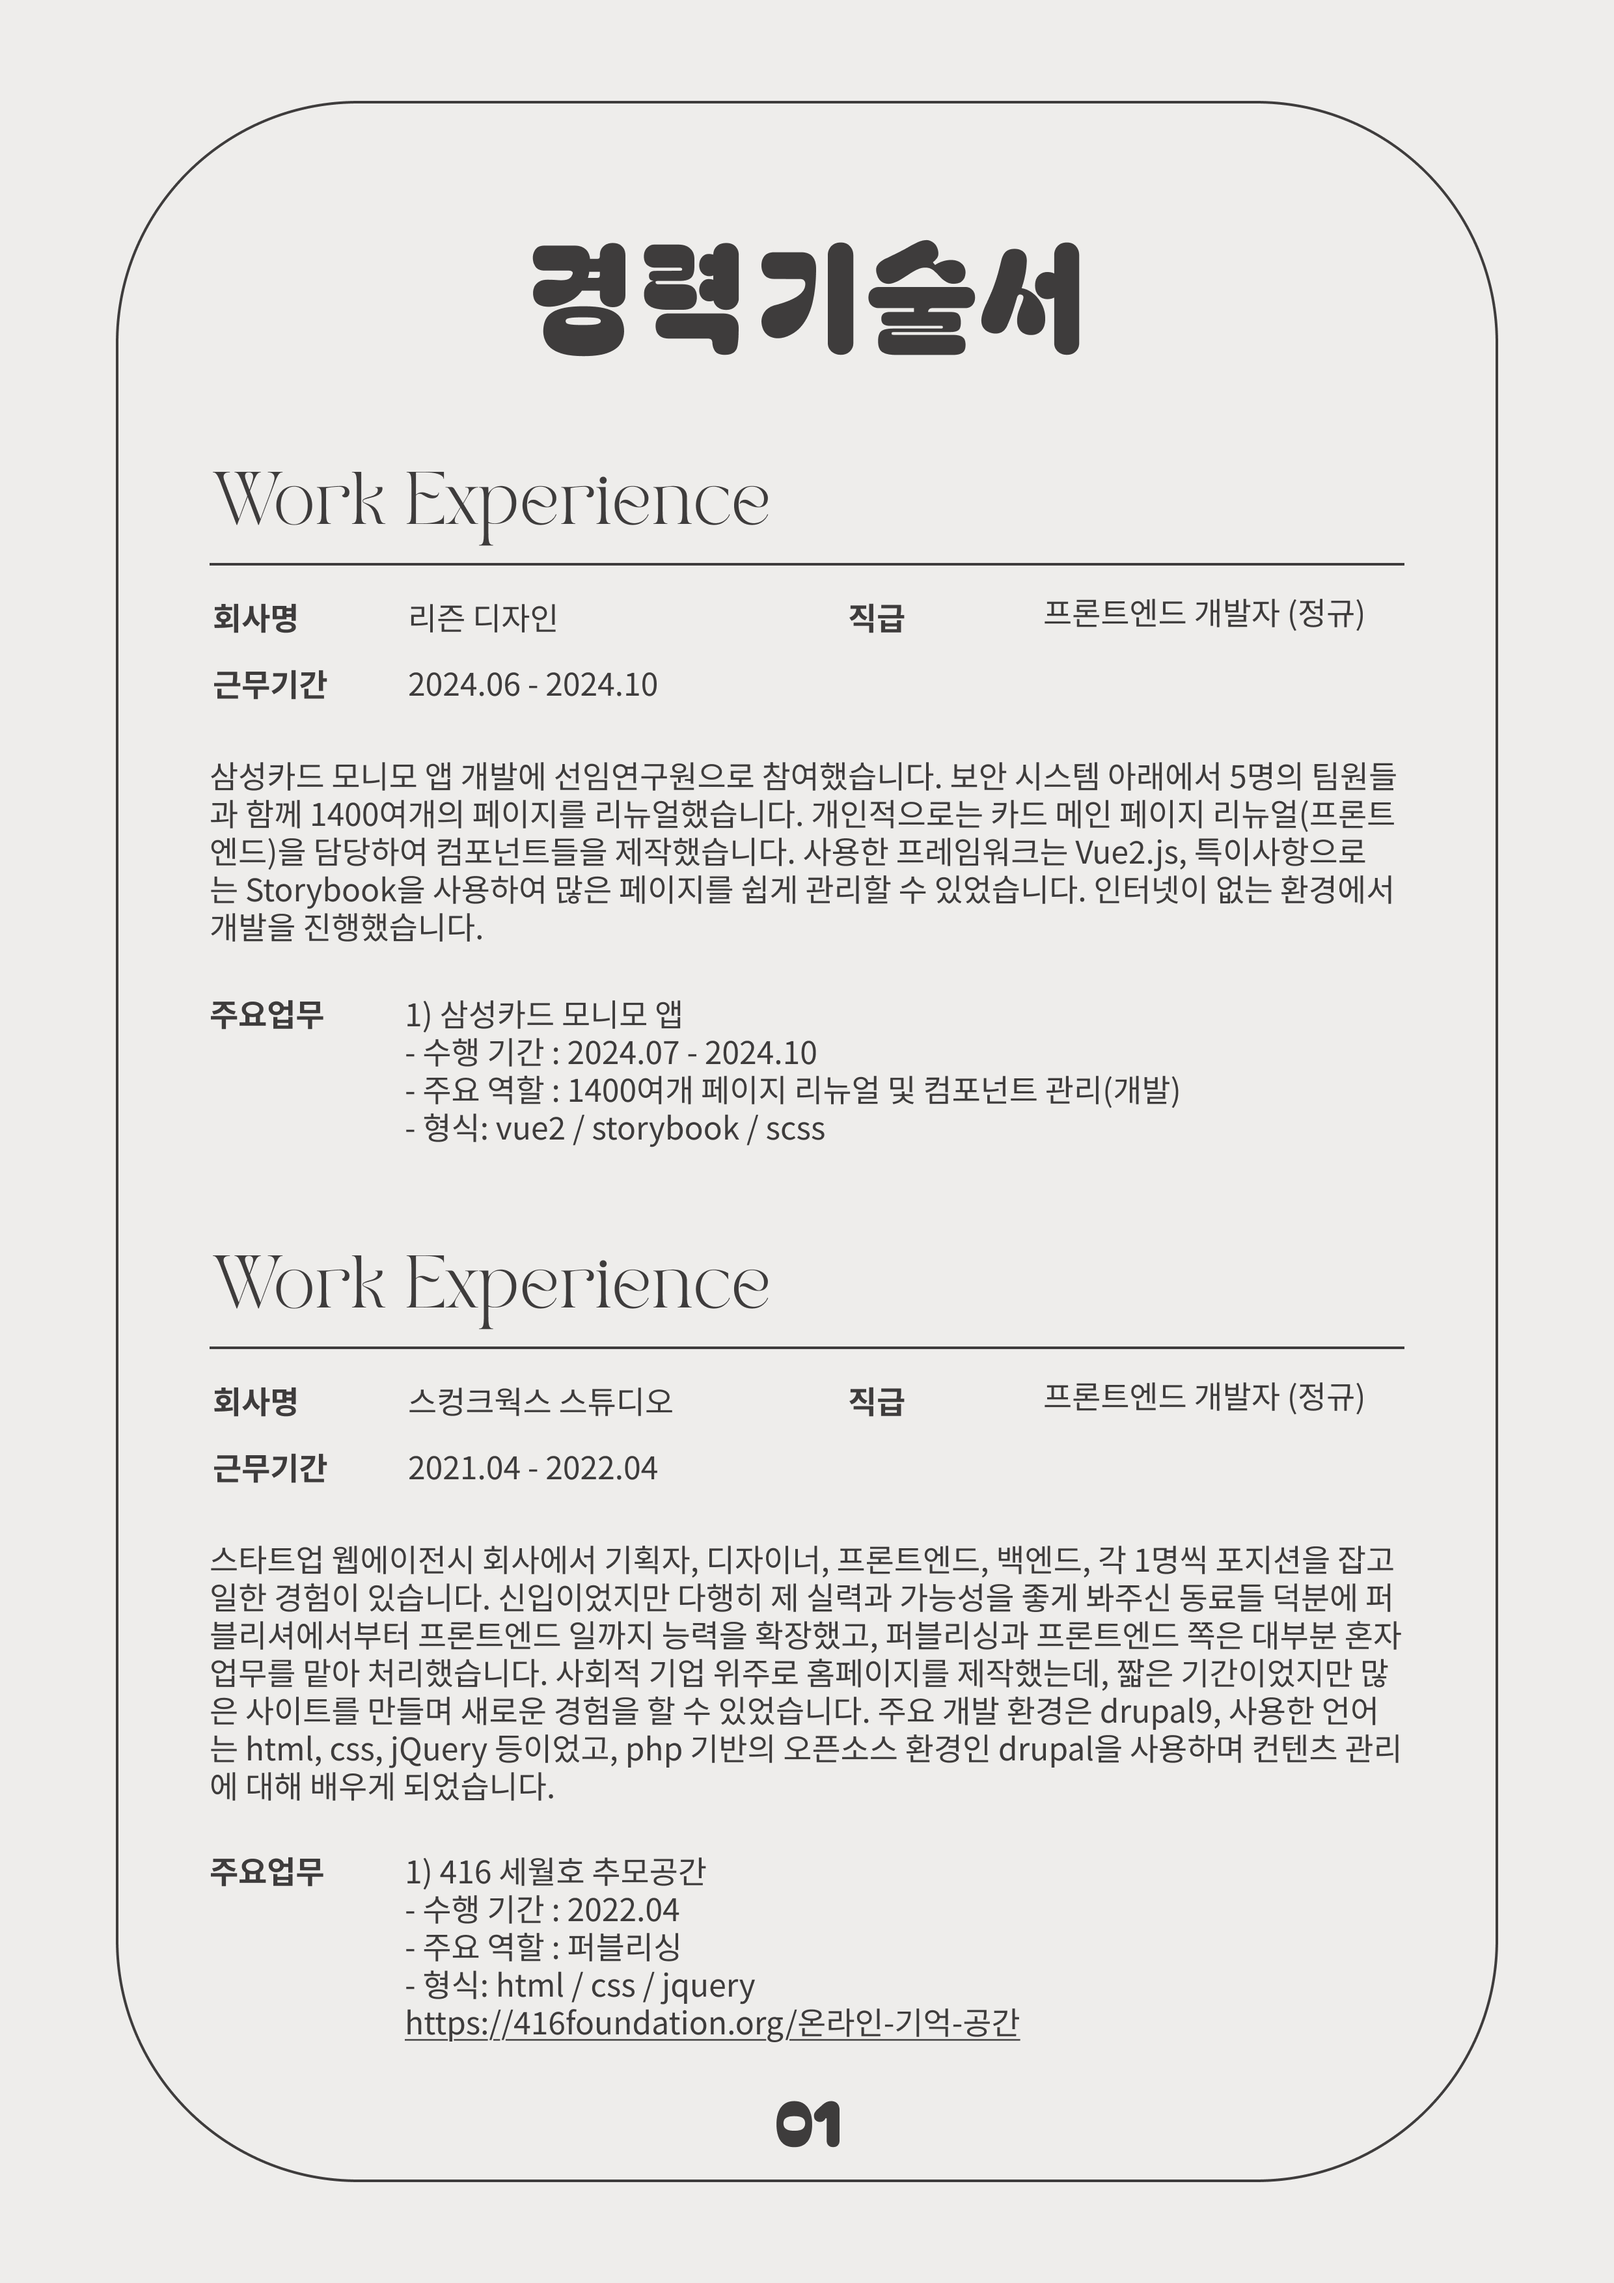
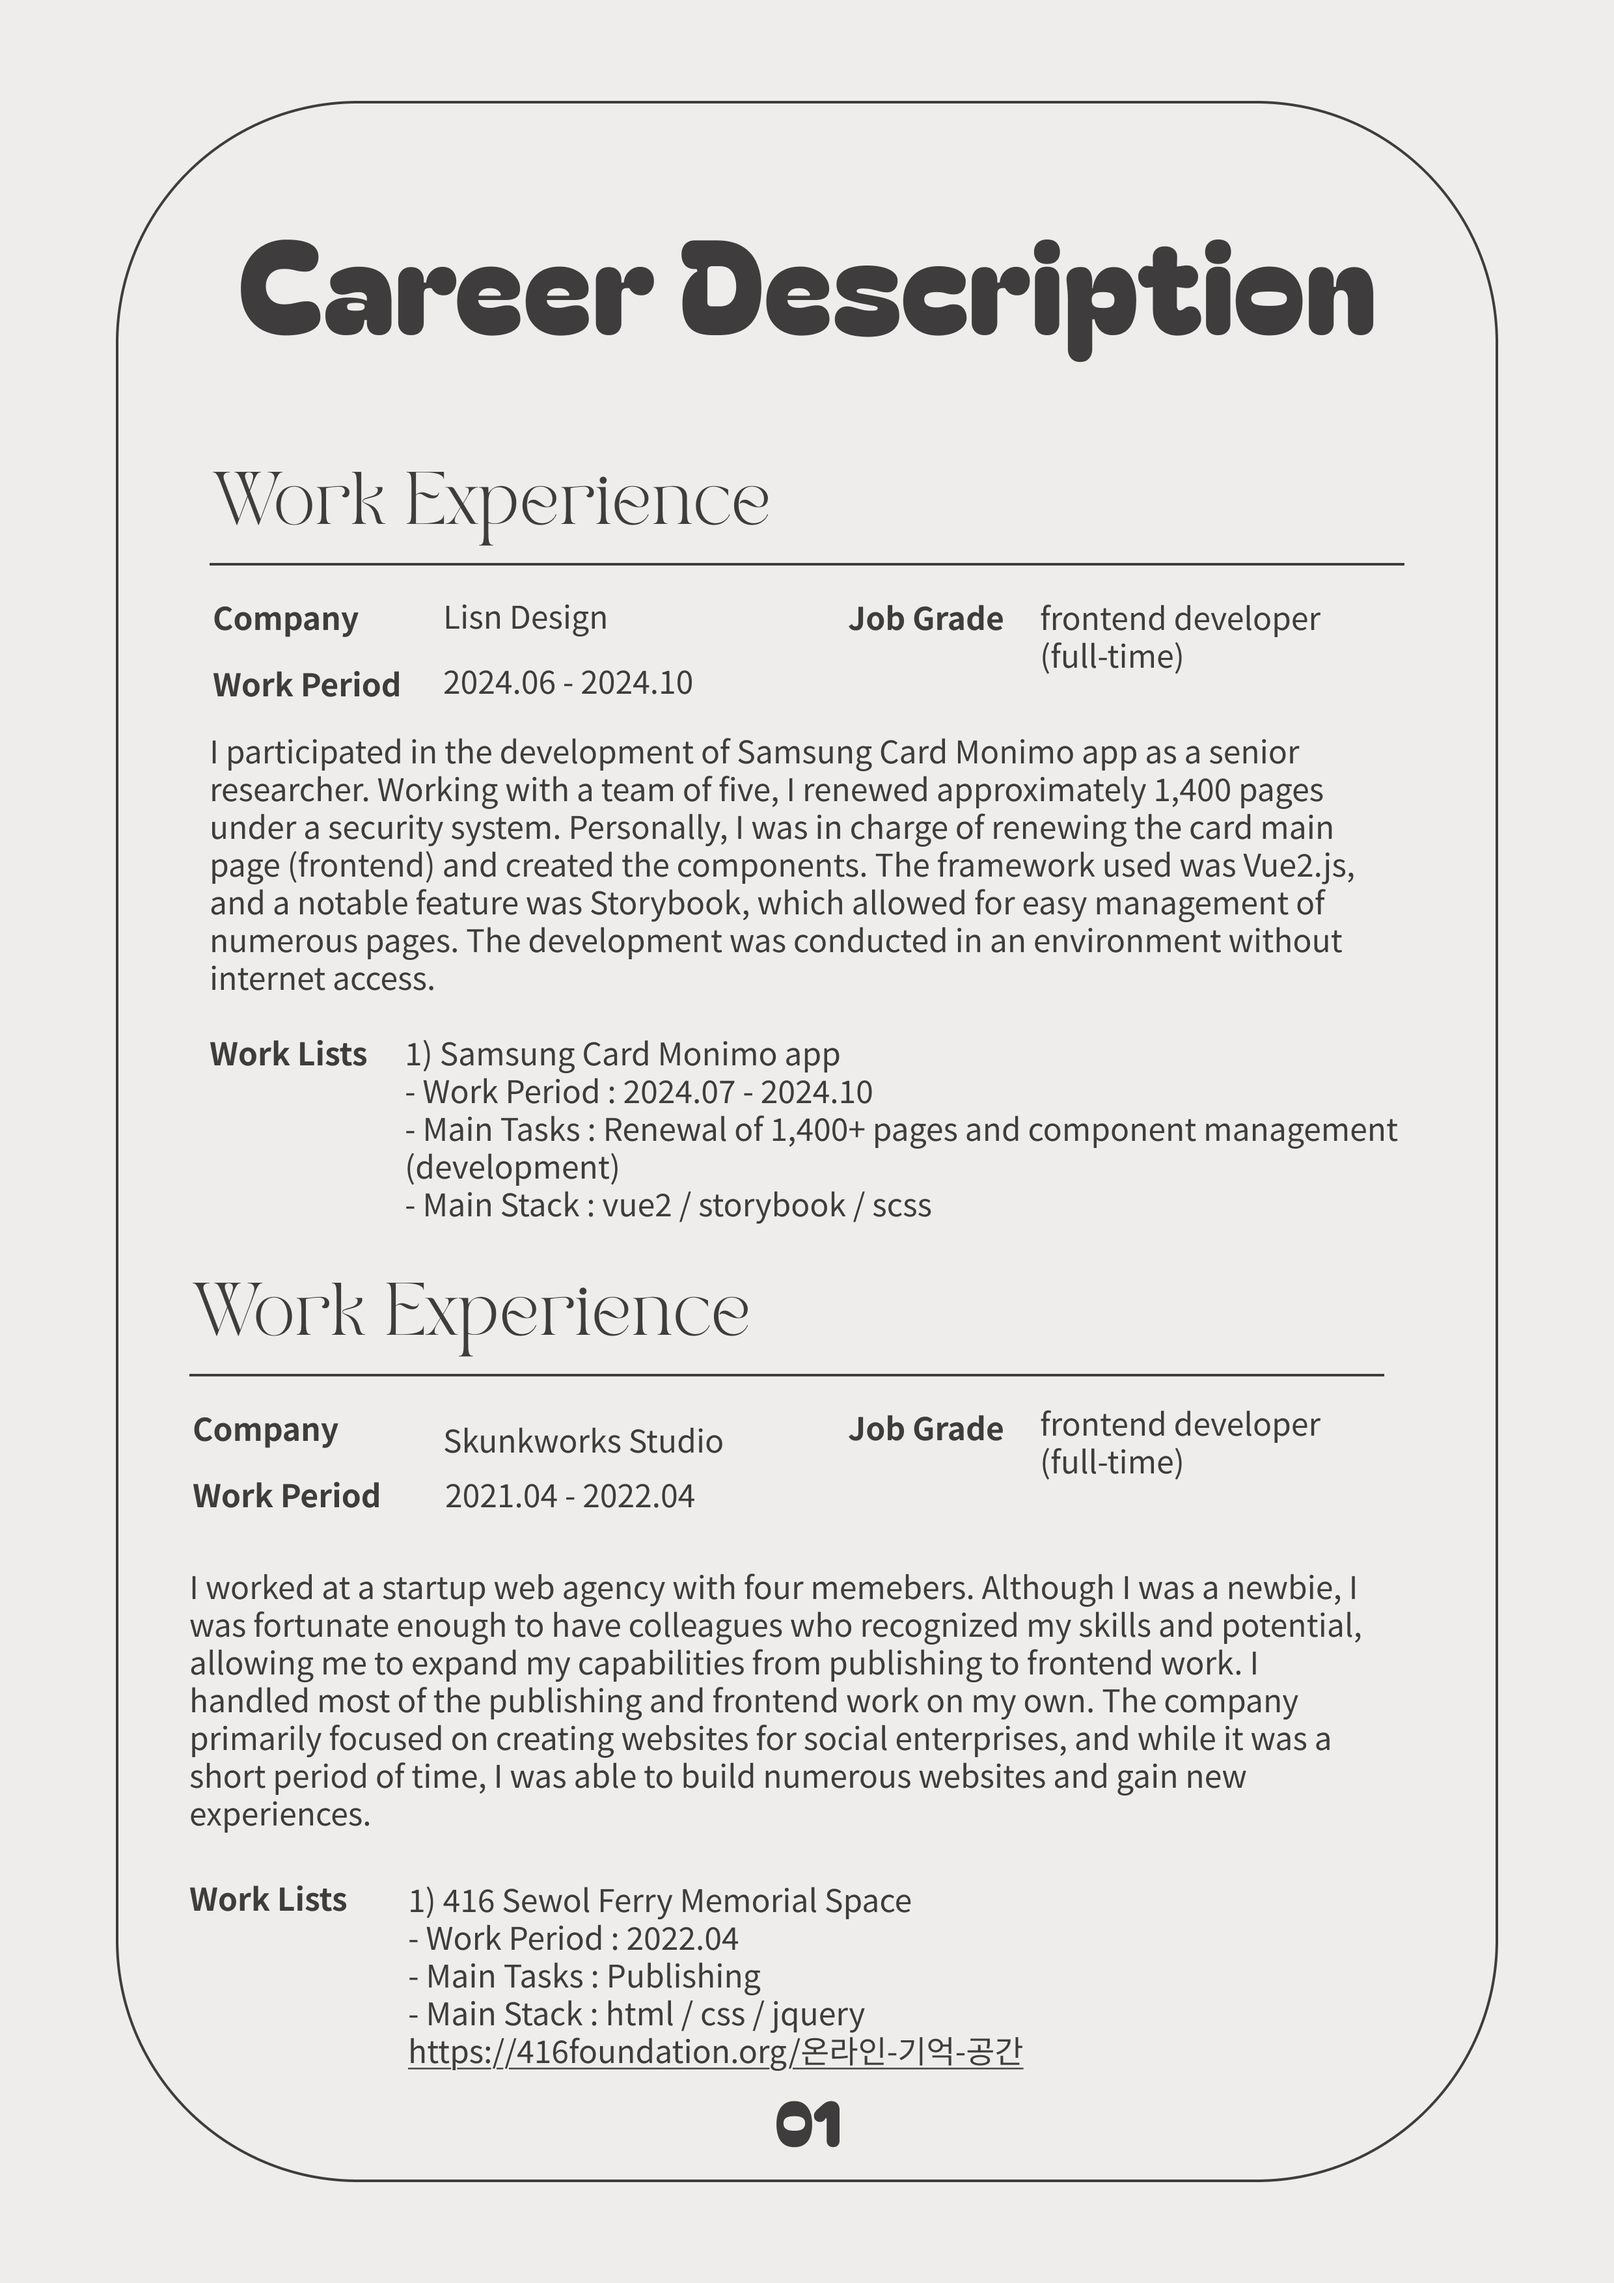
[DOCS] resume 한영지원 등

diff --git a/assets/data/projects.js b/assets/data/projects.js
@@ -119,8 +119,8 @@ export default [
         },
         content: {
             about: {
-                en:  'This is a 2025 version portfolio site<br class="mb"> built with Vue and Nuxt.<br> It utilizes libraries like GSAP and AOS,<br>and the main visuals are<br class="mb"> built by using p5.js.<br>The full code is available on GitHub, <br class="mb">so check it out!',
-                ko: 'vue와 nuxt로 구축한<br class="mb"> 2025년 버전 포트폴리오 사이트입니다.<br>GSAP, AOS 등의 라이브러리를 이용하였고,<br>메인비주얼은 p5.js를 사용했습니다.<br>GitHub에 전체 코드를 올려두었으니<br class="mb"> 확인해 보세요!',
+                en:  'This is a 2025 version portfolio site<br class="mb"> built with Vue and Nuxt. <br>Main idea is blank note and cards, <br>and both English and Korean<br class="mb"> are supported.<br>The full code is available on GitHub, <br class="mb">so check it out!',
+                ko: 'vue와 nuxt로 구축한<br class="mb"> 2025년 버전 포트폴리오 사이트입니다.<br>전체적인 아이디어는 백지 노트와 카드이고, <br>영문, 한글 지원이 가능합니다. <br>GitHub에 전체 코드를 올려두었으니<br class="mb"> 확인해 보세요!',
             }
 
         }
@@ -182,8 +182,8 @@ export default [
         },
         content: {
             about: {
-                en: 'Financial Services app<br>planned by Samsung Life Insurance, Fire Insurance and Samsung Card.<br> Developed under security system in collaboration with multiple teams.<br> Managed components and over 1,400 pages, including<br class="mb"> the card main page.',
-                ko: '삼성생명, 삼성화재, 삼성카드,<br class="mb"> 삼성증권에서 만든 금융 서비스 앱<br> 여러 팀과 협력하여<br class="mb">인터넷 사용 없이 보안 시스템 아래에서 개발<br>컴포넌트와 1400여개 페이지 관리,<br class="mb"> 카드 메인 페이지 담당',
+                en: 'Financial Services app<br>planned by Samsung Life Insurance, <br class="mb">Fire Insurance and Samsung Card.<br> Developed under security system <br class="mb">in collaboration with multiple teams. <br>Managed & renewed all components and <br class="mb">1,400+ pages with 5 team memebers.<br class="mb"> Renewed the card main page.',
+                ko: '삼성생명, 삼성화재, 삼성카드,<br class="mb"> 삼성증권에서 만든 금융 서비스 앱.<br> 여러 팀과 협력하여 <br class="mb">인터넷 사용 없이 보안 시스템 아래에서 개발.<br>5명의 팀원과 함께<br class="mb"> 모든 컴포넌트와 1400여개 페이지 관리 및 리뉴얼. <br>카드 메인 페이지 담당.',
             }
         }
     },
@@ -246,7 +246,7 @@ export default [
         },
         content: {
             about: {
-                en: 'An online space <br class="mb">which can leave messages<br> commemorating the 10th anniversary of <br class="mb">the Sewol Ferry Disaster.<br> Main visuals implemented using libraries like Scrollmagic<br class="mb"> and Tweenmax.',
+                en: 'An online space <br class="mb">which can leave messages<br> commemorating the 10th anniversary of <br class="mb">the Sewol Ferry Disaster.<br> Main visuals implemented using libraries <br class="mb">like Scrollmagic and Tweenmax.',
                 ko: '세월호참사 10주기를 기념하여<br class="mb"> 메세지를 남길 수 있는 공간<br> Scrollmagic, Tweenmax 등의<br class="mb"> 라이브러리를 이용하여 메인비주얼 구현',
             }
         },
@@ -310,7 +310,7 @@ export default [
         },
         content: {
             about: {
-                en: 'Banks Foundation for Young Entrepreneurs, DCAMP site renewal.<br>Responsible for the entire<br class="mb"> frontend of the site.<br>You can search and apply for programs DCAMP provides.<br>English site and personal membership window exists.',
+                en: 'Banks Foundation for <br class="mb">Young Entrepreneurs, <br class="mb">DCAMP site renewal.<br>Responsible for the entire<br class="mb"> frontend of the site.<br>You can search and apply for <br class="mb">programs DCAMP provides.<br>English site and <br class="mb">personal membership window exists.',
                 ko: '은행권청년창업재단 디캠프 사이트 리뉴얼.<br> 사이트 전체 프론트엔드 담당<br>디캠프가 제공하는 프로그램을<br class="mb"> 검색하고 신청할 수 있습니다.<br>영문사이트와 개인 멤버십<br class="mb"> 페이지가 따로 있습니다.',
             }
         },
@@ -376,7 +376,7 @@ export default [
         content: {
             about: {
                 en: 'The site operates various support<br class="mb"> programs helping dance artists.<br>You can apply support programs<br class="mb"> for health improvement <br class="mb">or career transition.<br>Checking latest news,<br class="mb"> donation functioning are also possible.',
-                ko: '무용예술인의 직업전환과 복지증진을 목표로<br class="mb"> 다양한 지원사업을 운영하고 있는 사이트.<br> 사이트 내에서 다양한 지원을 신청할 수 있고, 소식을 확인할 수 있습니다.<br> 후원기능이 있고, 간단한 <br class="mb">영문 페이지가 따로 존재합니다.', 
+                ko: '무용예술인의 직업전환과 복지증진을 목표로<br class="mb"> 다양한 지원사업을 운영하고 있는 사이트.<br> 사이트 내에서 다양한 지원을 신청할 수 있고,<br class="mb">  소식을 확인할 수 있습니다.<br> 후원기능이 있고, 간단한 <br class="mb">영문 페이지가 따로 존재합니다.', 
             },
             // detail: [
             //     '연혁 쪽 내비게이션과 스크롤 직접 제작, 영문사이트 포함',

diff --git a/assets/scss/layout/home.scss b/assets/scss/layout/home.scss
@@ -219,33 +219,6 @@
         }
     }
 
-    .skills {
-        padding: 10vh 0 15vh;
-        background-color: $gray1;
-        .inner {
-            position:relative;
-            #text-typing::v-deep {
-                text-align: center;
-                h1 {
-                    font-family: 'Bagel', 'Bagel_kr';
-                    font-size: 4rem;
-                    line-height: 1;
-                    font-weight: normal;
-                    &.cursor::after {
-                        height: 3rem;
-                        width: 2px;
-                    }
-                }
-            }
-            .subtext {
-                font-family: 'Diphylleia';
-                text-align: center;
-                font-size: 0.8rem;
-                margin-top: 16px;;
-            }
-        }
-    }
-
     .selected {
         padding: 0 !important;
         position: relative;
@@ -331,6 +304,33 @@
                         gap: 16px;
                     }
                 }
+            }
+        }
+    }
+    
+    .skills {
+        padding: 10vh 0 15vh;
+        background-color: $gray1;
+        .inner {
+            position:relative;
+            #text-typing::v-deep {
+                text-align: center;
+                h1 {
+                    font-family: 'Bagel', 'Bagel_kr';
+                    font-size: 4rem;
+                    line-height: 1;
+                    font-weight: normal;
+                    &.cursor::after {
+                        height: 3rem;
+                        width: 2px;
+                    }
+                }
+            }
+            .subtext {
+                font-family: 'Diphylleia';
+                text-align: center;
+                font-size: 0.8rem;
+                margin-top: 16px;;
             }
         }
     }

diff --git a/pages/resume.vue b/pages/resume.vue
@@ -7,13 +7,13 @@
         <client-only>
             <swiper :options='swiperOptions'>
                 <swiper-slide>
-                    <img src='@/assets/img/resume.png' loading='eager'>
+                    <img :src='resumeImage' loading='eager'>
                 </swiper-slide>
                 <swiper-slide>
-                    <img src='@/assets/img/CareerDescription1.png' loading='lazy'>
+                    <img :src='careerDescription1Image' loading='lazy'>
                 </swiper-slide>
                 <swiper-slide>
-                    <img src='@/assets/img/CareerDescription2.png' loading='lazy'>
+                    <img :src='careerDescription2Image' loading='lazy'>
                 </swiper-slide>
             </swiper>
             <div class='navigation prev mouse-hover1'>
@@ -36,6 +36,20 @@
 
 <script>
 export default {
+    computed: {
+        resumeImage() {
+            const suffix = this.$i18n.locale === 'ko' ? '_ko' : '';
+            return require(`@/assets/img/resume${suffix}.png`);
+        },
+        careerDescription1Image() {
+            const suffix = this.$i18n.locale === 'ko' ? '_ko' : '';
+            return require(`@/assets/img/CareerDescription1${suffix}.png`);
+        },
+        careerDescription2Image() {
+            const suffix = this.$i18n.locale === 'ko' ? '_ko' : '';
+            return require(`@/assets/img/CareerDescription2${suffix}.png`);
+        }
+    },
     data() {
         return {
             swiperOptions: {

diff --git a/assets/data/archive_music.js b/assets/data/archive_music.js
@@ -32,6 +32,12 @@ export default [
         video: {
             url: require('@/assets/img/archive/music/mindshaft.mp4'),
         },
+        content: {
+            about: {
+                en: 'Idea, video, photo and<br class="mb"> ambient sound source by Junq,<br> music producing by WitselBlue.<br><br>Inspired by famous gay club<br class="mb"> Mineshaft in NYC, <br> Junq connected the club to<br class="mb"> mind meditation travel with music.<br>I tried to embody music like <br class="mb">a club sound heard from afar<br>but also used natural sounds to tell <br class="mb">it\'s connected to mind traveling.',
+                ko: '아이디어, 비디오, 사진, 앰비언트 사운드 by Junq,<br> 음악 프로듀싱 by 비첼블루.<br><br>뉴욕의 유명한 게이클럽인<br class="mb"> 마인섀프트에서 영감을 받아<br>음악을 통해 마인섀프트와 <br class="mb">마음 명상 여행을 연결했습니다.<br>음악을 멀리서 들리는 <br class="mb">클럽 사운드처럼 구현하려 시도했지만<br>내추럴한 악기도 사용하여 <br class="mb">명상과 연결되도록 했습니다.'
+            }
+        }
     },
     {
         slug: 'blue',

diff --git a/layouts/Home.vue b/layouts/Home.vue
@@ -97,11 +97,7 @@
             </div>
             <section class='cover' ref='cover'>
                 <div class='inner'>
-                    <div class='paw-wrap'>
-                        <!-- <img src='@/assets/img/home/paw.svg' alt='paw' /> -->
-                    </div>
                     <TextTyping ref='coverTyping' text='how did I get here?' :backspace='false' :autoplay='false' />
-                    <!-- <TextShifting :text="'how did I get here?'" class='mouse-hover1' /> -->
                 </div>
             </section>
             <section class='history' ref='history'>

diff --git a/pages/archive/music/_slug.vue b/pages/archive/music/_slug.vue
@@ -74,6 +74,13 @@
                     </p>
                 </div>
             </section>
+
+            <section class='about' v-if='music.content'>
+                <div class='inner'>
+                    <p v-html='music.content.about[$i18n.locale]'></p>
+                </div>
+            </section>
+
         </div>
 
     </div>

diff --git a/assets/scss/layout/page_detail.scss b/assets/scss/layout/page_detail.scss
@@ -243,10 +243,13 @@
         }
     }
     .video {
-        padding-top: 0;
+        padding: 0;
         video {
             width: 100%;
         }
+    }
+    .about {
+        text-align: center;
     }
 }
 
